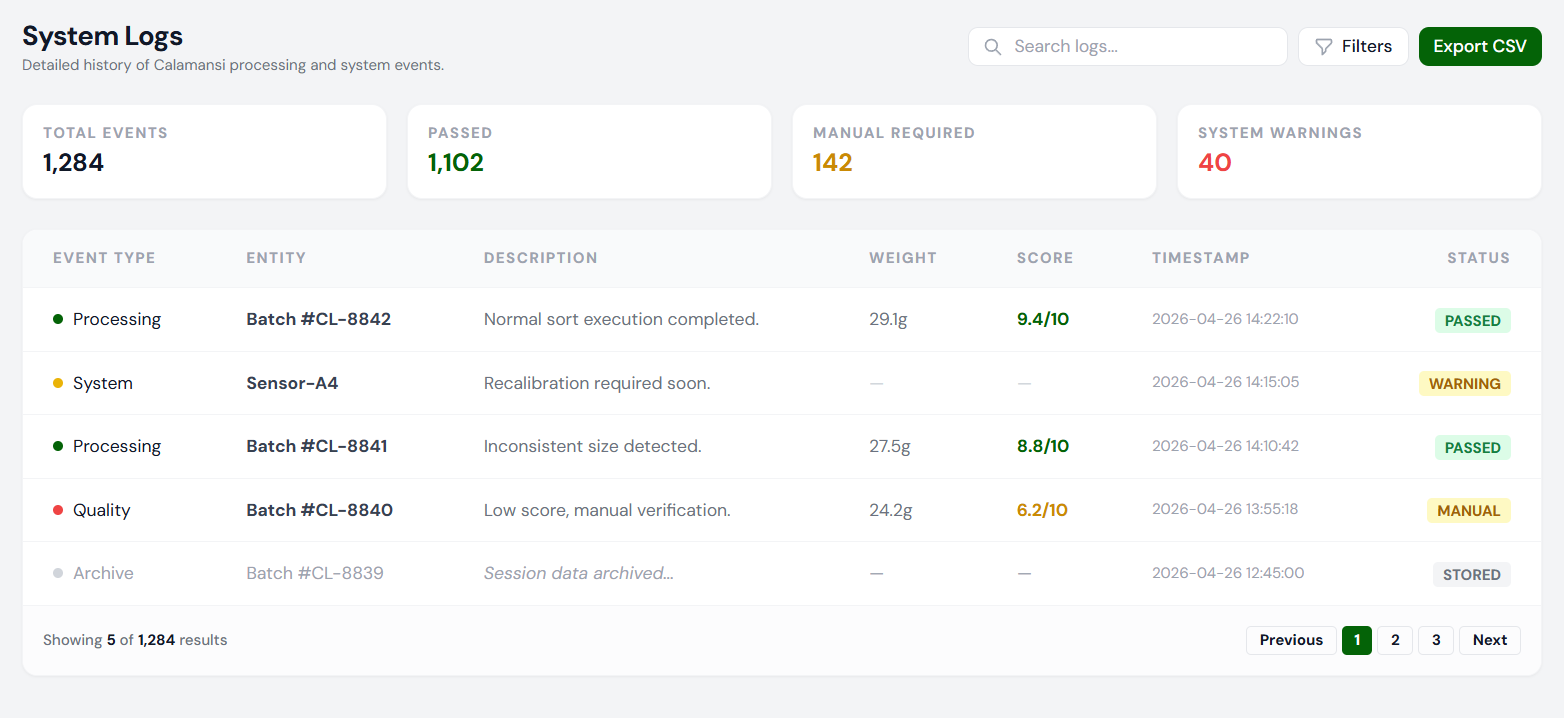
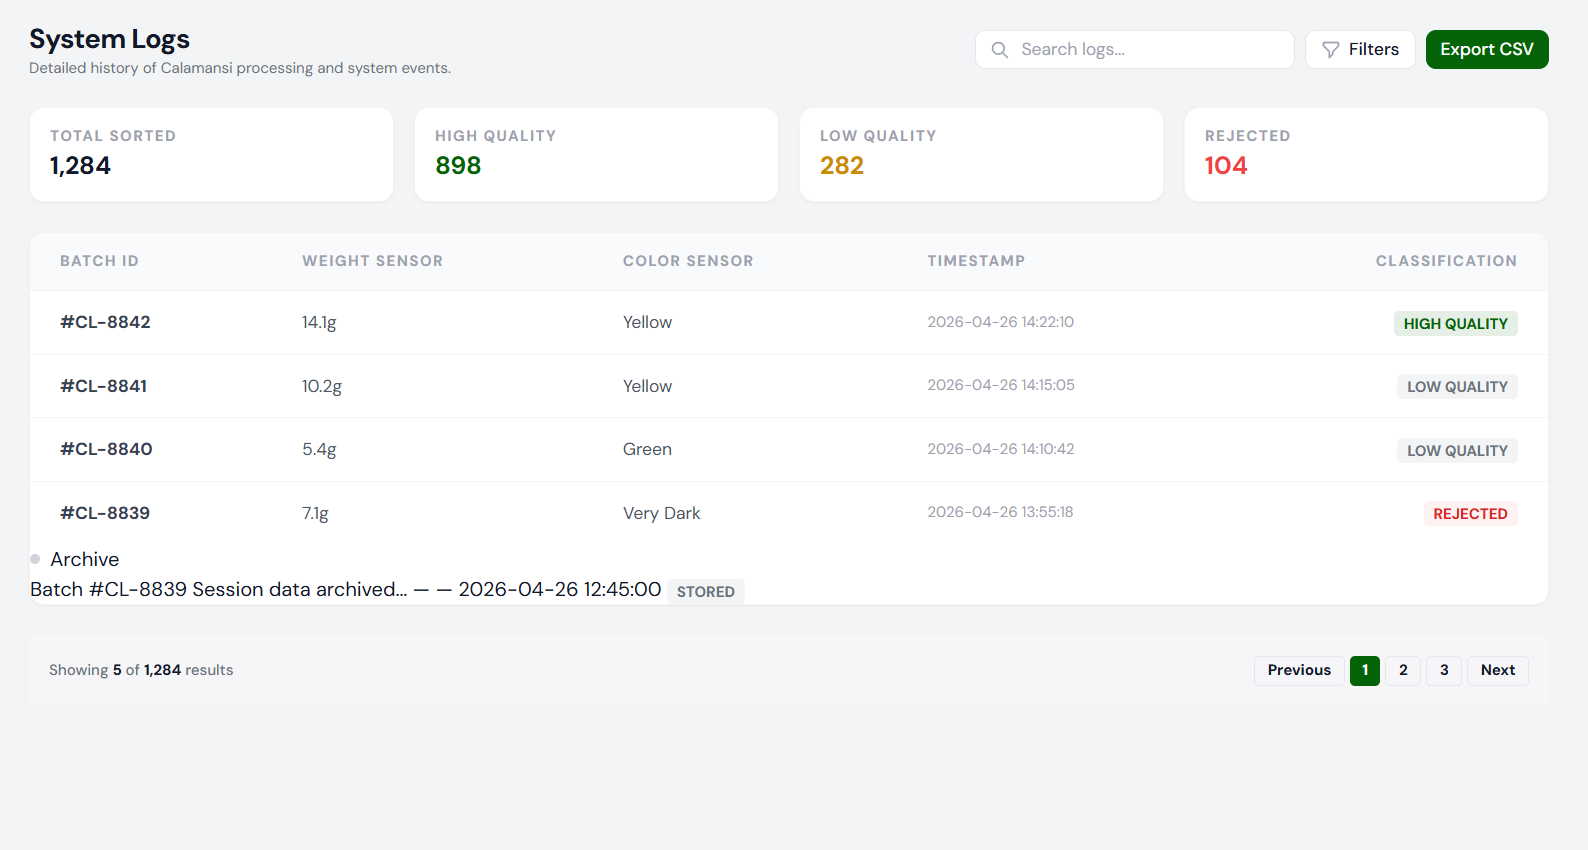
changed design of logs.html

diff --git a/app/templates/app/logs.html b/app/templates/app/logs.html
@@ -26,127 +26,78 @@
     <!-- Quick Stats for Logs -->
     <div class="grid grid-cols-4 gap-4">
         <div class="bg-white p-4 rounded-xl shadow-sm border border-gray-100">
-            <p class="text-ui-tiny font-bold text-gray-400 uppercase tracking-widest">Total Events</p>
+            <p class="text-ui-tiny font-bold text-gray-400 uppercase tracking-widest">Total Sorted</p>
             <p class="text-ui-metric font-bold mt-1">1,284</p>
         </div>
         <div class="bg-white p-4 rounded-xl shadow-sm border border-gray-100">
-            <p class="text-ui-tiny font-bold text-gray-400 uppercase tracking-widest">Passed</p>
-            <p class="text-ui-metric font-bold mt-1 text-primary">1,102</p>
+            <p class="text-ui-tiny font-bold text-gray-400 uppercase tracking-widest">High Quality</p>
+            <p class="text-ui-metric font-bold mt-1 text-primary">898</p>
         </div>
         <div class="bg-white p-4 rounded-xl shadow-sm border border-gray-100">
-            <p class="text-ui-tiny font-bold text-gray-400 uppercase tracking-widest">Manual Required</p>
-            <p class="text-ui-metric font-bold mt-1 text-yellow-600">142</p>
+            <p class="text-ui-tiny font-bold text-gray-400 uppercase tracking-widest">Low Quality</p>
+            <p class="text-ui-metric font-bold mt-1 text-gray-600">282</p>
         </div>
         <div class="bg-white p-4 rounded-xl shadow-sm border border-gray-100">
-            <p class="text-ui-tiny font-bold text-gray-400 uppercase tracking-widest">System Warnings</p>
-            <p class="text-ui-metric font-bold mt-1 text-red-500">40</p>
+            <p class="text-ui-tiny font-bold text-gray-400 uppercase tracking-widest">Rejected</p>
+            <p class="text-ui-metric font-bold mt-1 text-red-600">104</p>
         </div>
     </div>
 
     <!-- Logs Table -->
     <div class="bg-white rounded-xl shadow-sm border border-gray-100 overflow-hidden">
-        <div class="overflow-x-auto">
-            <table class="w-full text-left">
-                <thead>
-                    <tr class="text-ui-tiny font-bold text-gray-400 uppercase tracking-widest bg-gray-50 border-b border-gray-100">
-                        <th class="px-6 py-4">Event Type</th>
-                        <th class="px-6 py-4">Entity</th>
-                        <th class="px-6 py-4">Description</th>
-                        <th class="px-6 py-4">Weight</th>
-                        <th class="px-6 py-4">Score</th>
-                        <th class="px-6 py-4">Timestamp</th>
-                        <th class="px-6 py-4 text-right">Status</th>
-                    </tr>
-                </thead>
-                <tbody class="divide-y divide-gray-100 text-ui-base">
-                    <!-- Row 1 -->
-                    <tr class="hover:bg-gray-50 transition-colors group">
-                        <td class="px-6 py-4">
-                            <span class="flex items-center">
-                                <span class="w-2 h-2 rounded-full bg-primary mr-2"></span>
-                                Processing
-                            </span>
-                        </td>
-                        <td class="px-6 py-4 font-bold text-gray-700">Batch #CL-8842</td>
-                        <td class="px-6 py-4 text-gray-500">Normal sort execution completed.</td>
-                        <td class="px-6 py-4 text-gray-500">29.1g</td>
-                        <td class="px-6 py-4 text-primary font-bold">9.4/10</td>
-                        <td class="px-6 py-4 text-gray-400 text-ui-tiny">2026-04-26 14:22:10</td>
-                        <td class="px-6 py-4 text-right">
-                            <span class="px-2 py-0.5 bg-green-100 text-green-700 rounded text-ui-tiny font-bold uppercase">Passed</span>
-                        </td>
-                    </tr>
-                    <!-- Row 2 -->
-                    <tr class="hover:bg-gray-50 transition-colors group">
-                        <td class="px-6 py-4">
-                            <span class="flex items-center">
-                                <span class="w-2 h-2 rounded-full bg-yellow-500 mr-2"></span>
-                                System
-                            </span>
-                        </td>
-                        <td class="px-6 py-4 font-bold text-gray-700">Sensor-A4</td>
-                        <td class="px-6 py-4 text-gray-500">Recalibration required soon.</td>
-                        <td class="px-6 py-4 text-gray-300">—</td>
-                        <td class="px-6 py-4 text-gray-300">—</td>
-                        <td class="px-6 py-4 text-gray-400 text-ui-tiny">2026-04-26 14:15:05</td>
-                        <td class="px-6 py-4 text-right">
-                            <span class="px-2 py-0.5 bg-yellow-100 text-yellow-700 rounded text-ui-tiny font-bold uppercase">Warning</span>
-                        </td>
-                    </tr>
-                    <!-- Row 3 -->
-                    <tr class="hover:bg-gray-50 transition-colors group">
-                        <td class="px-6 py-4">
-                            <span class="flex items-center">
-                                <span class="w-2 h-2 rounded-full bg-primary mr-2"></span>
-                                Processing
-                            </span>
-                        </td>
-                        <td class="px-6 py-4 font-bold text-gray-700">Batch #CL-8841</td>
-                        <td class="px-6 py-4 text-gray-500">Inconsistent size detected.</td>
-                        <td class="px-6 py-4 text-gray-500">27.5g</td>
-                        <td class="px-6 py-4 text-primary font-bold">8.8/10</td>
-                        <td class="px-6 py-4 text-gray-400 text-ui-tiny">2026-04-26 14:10:42</td>
-                        <td class="px-6 py-4 text-right">
-                            <span class="px-2 py-0.5 bg-green-100 text-green-700 rounded text-ui-tiny font-bold uppercase">Passed</span>
-                        </td>
-                    </tr>
-                    <!-- Row 4 -->
-                    <tr class="hover:bg-gray-50 transition-colors group">
-                        <td class="px-6 py-4">
-                            <span class="flex items-center">
-                                <span class="w-2 h-2 rounded-full bg-red-500 mr-2"></span>
-                                Quality
-                            </span>
-                        </td>
-                        <td class="px-6 py-4 font-bold text-gray-700">Batch #CL-8840</td>
-                        <td class="px-6 py-4 text-gray-500">Low score, manual verification.</td>
-                        <td class="px-6 py-4 text-gray-500">24.2g</td>
-                        <td class="px-6 py-4 text-yellow-600 font-bold">6.2/10</td>
-                        <td class="px-6 py-4 text-gray-400 text-ui-tiny">2026-04-26 13:55:18</td>
-                        <td class="px-6 py-4 text-right">
-                            <span class="px-2 py-0.5 bg-yellow-100 text-yellow-700 rounded text-ui-tiny font-bold uppercase">Manual</span>
-                        </td>
-                    </tr>
-                    <!-- Row 5 (Repetitive data for visual depth) -->
-                    <tr class="hover:bg-gray-50 transition-colors group text-gray-400">
-                        <td class="px-6 py-4">
-                            <span class="flex items-center">
-                                <span class="w-2 h-2 rounded-full bg-gray-300 mr-2"></span>
-                                Archive
-                            </span>
-                        </td>
-                        <td class="px-6 py-4">Batch #CL-8839</td>
-                        <td class="px-6 py-4 italic">Session data archived...</td>
-                        <td class="px-6 py-4">—</td>
-                        <td class="px-6 py-4">—</td>
-                        <td class="px-6 py-4 text-ui-tiny">2026-04-26 12:45:00</td>
-                        <td class="px-6 py-4 text-right">
-                            <span class="px-2 py-0.5 bg-gray-100 text-gray-500 rounded text-ui-tiny font-bold uppercase">Stored</span>
-                        </td>
-                    </tr>
-                </tbody>
-            </table>
-        </div>
+        <table class="w-full text-left border-collapse">
+            <thead>
+                <tr class="text-ui-tiny font-bold text-gray-400 uppercase tracking-widest bg-gray-50 border-b border-gray-100">
+                    <th class="px-6 py-4">Batch ID</th>
+                    <th class="px-6 py-4">Weight Sensor</th>
+                    <th class="px-6 py-4">Color Sensor</th>
+                    <th class="px-6 py-4">Timestamp</th>
+                    <th class="px-6 py-4 text-right">Classification</th>
+                </tr>
+            </thead>
+            <tbody class="divide-y divide-gray-100 text-ui-tiny">
+                <!-- Row 1 -->
+                <tr class="hover:bg-gray-50/50 transition-colors group">
+                    <td class="px-6 py-4 font-bold text-gray-700">#CL-8842</td>
+                    <td class="px-6 py-4 text-gray-600">14.1g</td>
+                    <td class="px-6 py-4 text-gray-600">Yellow</td>
+                    <td class="px-6 py-4 text-gray-400 text-ui-tiny">2026-04-26 14:22:10</td>
+                    <td class="px-6 py-4 text-right">
+                        <span class="px-2 py-0.5 text-primary rounded text-ui-tiny font-bold uppercase">High Quality</span>
+                    </td>
+                </tr>
+                <!-- Row 2 -->
+                <tr class="hover:bg-gray-50/50 transition-colors group">
+                    <td class="px-6 py-4 font-bold text-gray-700">#CL-8841</td>
+                    <td class="px-6 py-4 text-gray-600">10.2g</td>
+                    <td class="px-6 py-4 text-gray-600">Yellow</td>
+                    <td class="px-6 py-4 text-gray-400 text-ui-tiny">2026-04-26 14:15:05</td>
+                    <td class="px-6 py-4 text-right">
+                        <span class="px-2 py-0.5 text-gray-500 rounded text-ui-tiny font-bold uppercase">Low Quality</span>
+                    </td>
+                </tr>
+                <!-- Row 3 -->
+                <tr class="hover:bg-gray-50/50 transition-colors group">
+                    <td class="px-6 py-4 font-bold text-gray-700">#CL-8840</td>
+                    <td class="px-6 py-4 text-gray-600">5.4g</td>
+                    <td class="px-6 py-4 text-gray-600">Green</td>
+                    <td class="px-6 py-4 text-gray-400 text-ui-tiny">2026-04-26 14:10:42</td>
+                    <td class="px-6 py-4 text-right">
+                        <span class="px-2 py-0.5 text-gray-500 rounded text-ui-tiny font-bold uppercase">Low Quality</span>
+                    </td>
+                </tr>
+                <!-- Row 4 -->
+                <tr class="hover:bg-gray-50/50 transition-colors group">
+                    <td class="px-6 py-4 font-bold text-gray-700">#CL-8839</td>
+                    <td class="px-6 py-4 text-gray-600">7.1g</td>
+                    <td class="px-6 py-4 text-gray-600">Very Dark</td>
+                    <td class="px-6 py-4 text-gray-400 text-ui-tiny">2026-04-26 13:55:18</td>
+                    <td class="px-6 py-4 text-right">
+                        <span class="px-2 py-0.5 bg-red text-red-600 rounded text-ui-tiny font-bold uppercase">Rejected</span>
+                    </td>
+                </tr>
+            </tbody>
+        </table>
         <!-- Pagination -->
         <div class="p-4 border-t border-gray-100 flex justify-between items-center bg-gray-50/50">
             <p class="text-ui-tiny text-gray-500 font-medium">Showing <span class="text-gray-900 font-bold">5</span> of <span class="text-gray-900 font-bold">1,284</span> results</p>

diff --git a/app/templates/app/dashboard.html b/app/templates/app/dashboard.html
@@ -114,52 +114,46 @@
     <!-- Real-time Tracking List -->
     <div class="bg-white rounded-xl shadow-sm border border-gray-100 overflow-hidden">
         <div class="p-5 border-b border-gray-100 flex justify-between items-center">
-            <h3 class="text-sm font-bold">Recent Sorting Activity</h3>
-            <button class="text-primary text-xs font-bold hover:underline">View Logs &rarr;</button>
+            <h3 class="text-ui-header font-bold">Recent Sorting Activity</h3>
+            <a href="{% url 'logs' %}" class="text-primary text-ui-tiny font-bold hover:underline">View Logs &rarr;</a>
         </div>
         <div class="overflow-x-auto">
-            <table class="w-full text-left">
+            <table class="w-full text-left border-collapse">
                 <thead>
-                    <tr class="text-[10px] font-bold text-gray-400 uppercase tracking-widest bg-gray-50">
-                        <th class="px-6 py-3">Batch ID</th>
-                        <th class="px-6 py-3">Timestamp</th>
-                        <th class="px-6 py-3">Weight</th>
-                        <th class="px-6 py-3">Color Reading</th>
-                        <th class="px-6 py-3 text-right">Bin Classification</th>
+                    <tr class="text-ui-tiny font-bold text-gray-400 uppercase tracking-widest bg-gray-50 border-b border-gray-100">
+                        <th class="px-6 py-4">Batch ID</th>
+                        <th class="px-6 py-4">Weight Sensor</th>
+                        <th class="px-6 py-4">Color Sensor</th>
+                        <th class="px-6 py-4">Timestamp</th>
+                        <th class="px-6 py-4 text-right">Classification</th>
                     </tr>
                 </thead>
-                <tbody class="divide-y divide-gray-100">
-                    <tr class="hover:bg-gray-50 transition-colors group text-xs">
-                        <td class="px-6 py-3.5 font-bold text-gray-700">#CL-8842</td>
-                        <td class="px-6 py-3.5 text-gray-500">2 mins ago</td>
-                        <td class="px-6 py-3.5 text-gray-500 font-medium">14.1g</td>
-                        <td class="px-6 py-3.5">
-                            <span class="text-primary font-bold">Yellow</span>
-                        </td>
-                        <td class="px-6 py-3.5 text-right">
-                            <span class="px-2 py-0.5 bg-green-100 text-green-700 rounded text-[10px] font-bold uppercase">High Quality</span>
+                <tbody class="divide-y divide-gray-100 text-ui-tiny">
+                    <tr class="hover:bg-gray-50/50 transition-colors group">
+                        <td class="px-6 py-4 font-bold text-gray-700">#CL-8842</td>
+                        <td class="px-6 py-4 text-gray-600">14.1g</td>
+                        <td class="px-6 py-4 text-gray-600">Yellow</td>
+                        <td class="px-6 py-4 text-gray-400">2 mins ago</td>
+                        <td class="px-6 py-4 text-right">
+                            <span class="px-2 py-0.5 text-primary rounded font-bold uppercase">High Quality</span>
                         </td>
                     </tr>
-                    <tr class="hover:bg-gray-50 transition-colors group text-xs">
-                        <td class="px-6 py-3.5 font-bold text-gray-700">#CL-8841</td>
-                        <td class="px-6 py-3.5 text-gray-500">12 mins ago</td>
-                        <td class="px-6 py-3.5 text-gray-500 font-medium">10.2g</td>
-                        <td class="px-6 py-3.5">
-                            <span class="text-yellow-600 font-bold">Yellow</span>
-                        </td>
-                        <td class="px-6 py-3.5 text-right">
-                            <span class="px-2 py-0.5 bg-yellow-100 text-yellow-700 rounded text-[10px] font-bold uppercase">Low Quality</span>
+                    <tr class="hover:bg-gray-50/50 transition-colors group">
+                        <td class="px-6 py-4 font-bold text-gray-700">#CL-8841</td>
+                        <td class="px-6 py-4 text-gray-600">10.2g</td>
+                        <td class="px-6 py-4 text-gray-600">Yellow</td>
+                        <td class="px-6 py-4 text-gray-400">12 mins ago</td>
+                        <td class="px-6 py-4 text-right">
+                            <span class="px-2 py-0.5 text-gray-500 rounded font-bold uppercase">Low Quality</span>
                         </td>
                     </tr>
-                    <tr class="hover:bg-gray-50 transition-colors group text-xs">
-                        <td class="px-6 py-3.5 font-bold text-gray-700">#CL-8840</td>
-                        <td class="px-6 py-3.5 text-gray-500">45 mins ago</td>
-                        <td class="px-6 py-3.5 text-gray-500 font-medium">8.4g</td>
-                        <td class="px-6 py-3.5">
-                            <span class="text-gray-400 font-bold">Dark Green</span>
-                        </td>
-                        <td class="px-6 py-3.5 text-right">
-                            <span class="px-2 py-0.5 bg-red-100 text-red-700 rounded text-[10px] font-bold uppercase">Rejected</span>
+                    <tr class="hover:bg-gray-50/50 transition-colors group">
+                        <td class="px-6 py-4 font-bold text-gray-700">#CL-8840</td>
+                        <td class="px-6 py-4 text-gray-600">8.4g</td>
+                        <td class="px-6 py-4 text-gray-600">Dark Green</td>
+                        <td class="px-6 py-4 text-gray-400">45 mins ago</td>
+                        <td class="px-6 py-4 text-right">
+                            <span class="px-2 py-0.5 bg-red-50 text-red-600 rounded font-bold uppercase">Rejected</span>
                         </td>
                     </tr>
                 </tbody>

diff --git a/app/templates/app/base.html b/app/templates/app/base.html
@@ -23,7 +23,7 @@
                     },
                     // Centralized Typography System
                     fontSize: {
-                        'ui-tiny': ['12px', '14px'],    
+                        'ui-tiny': ['12px', '13px'],    
                         'ui-base': ['14px', '18px'],    
                         'ui-header': ['15px', '22px'],  
                         'ui-metric': ['20px', '24px'],  
